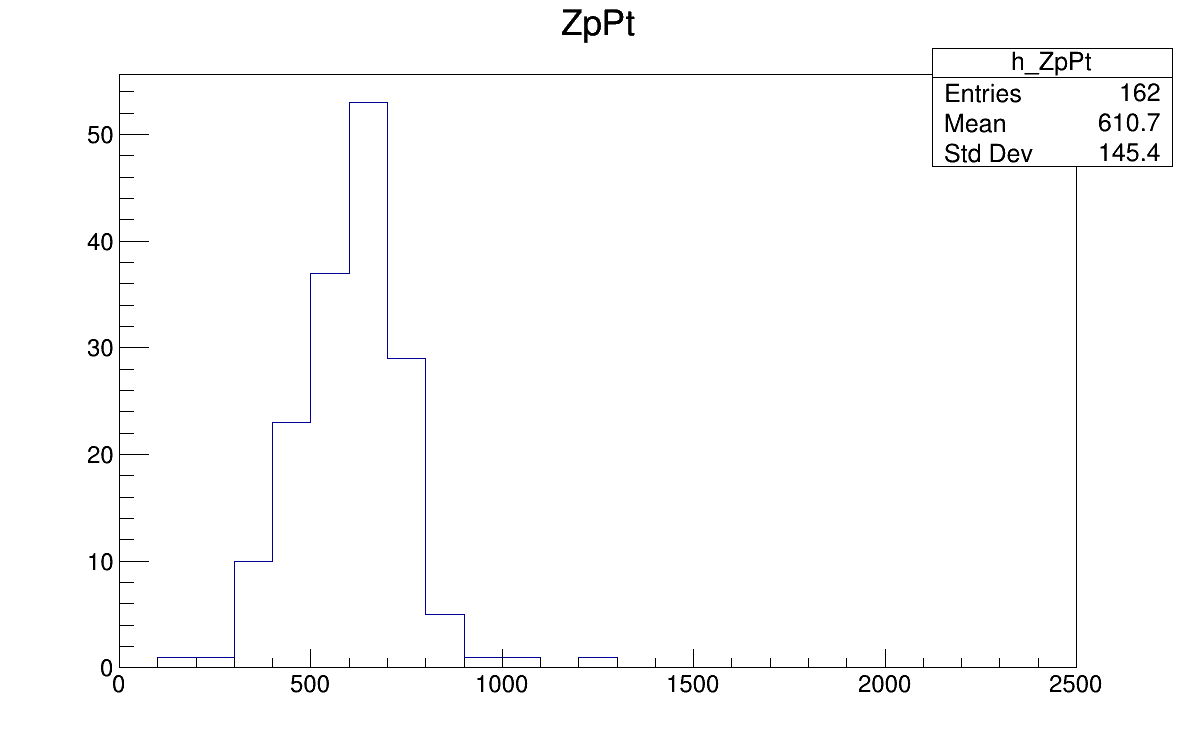
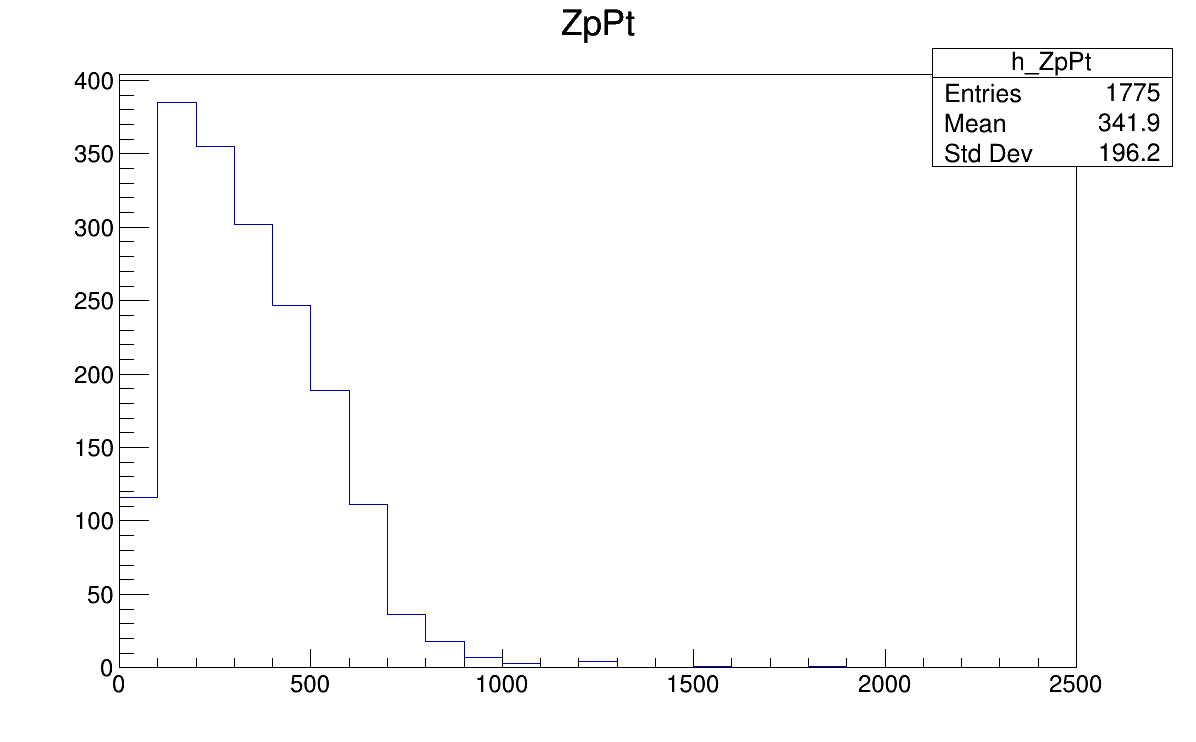
fix the bug

diff --git a/boosted_xAna_BZ.C b/boosted_xAna_BZ.C
@@ -158,7 +158,7 @@ void boosted_xAna_BZ(std::string inputFile){
         Int_t *genMomParId = data.GetPtrInt("genMomParId");
         Int_t *genParSt = data.GetPtrInt("genParSt");
         Int_t nPar = data.GetInt("nGenPar");
-        Int_t zpIndex[2] = {-1}, higgsIndex[2] = {-1};
+        Int_t zpIndex[2] = {-1,-1}, higgsIndex[2] = {-1,-1};
         Int_t nZpmo = 0, nHiggsmo = 0;
         for (int ij=0;ij<30;ij++) {
             if (genParSt[ij] != 23) continue;
